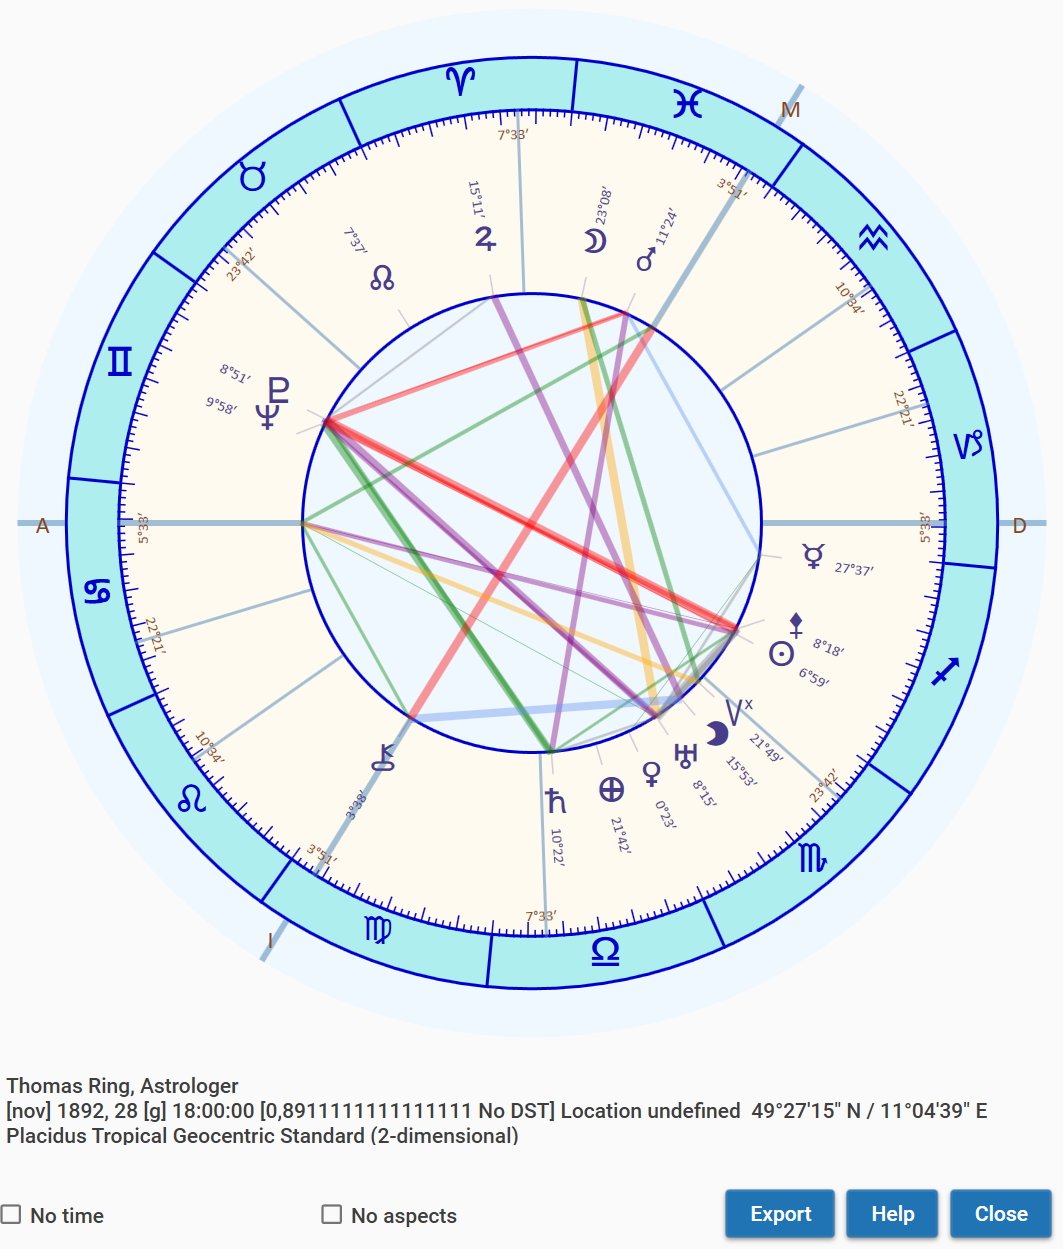
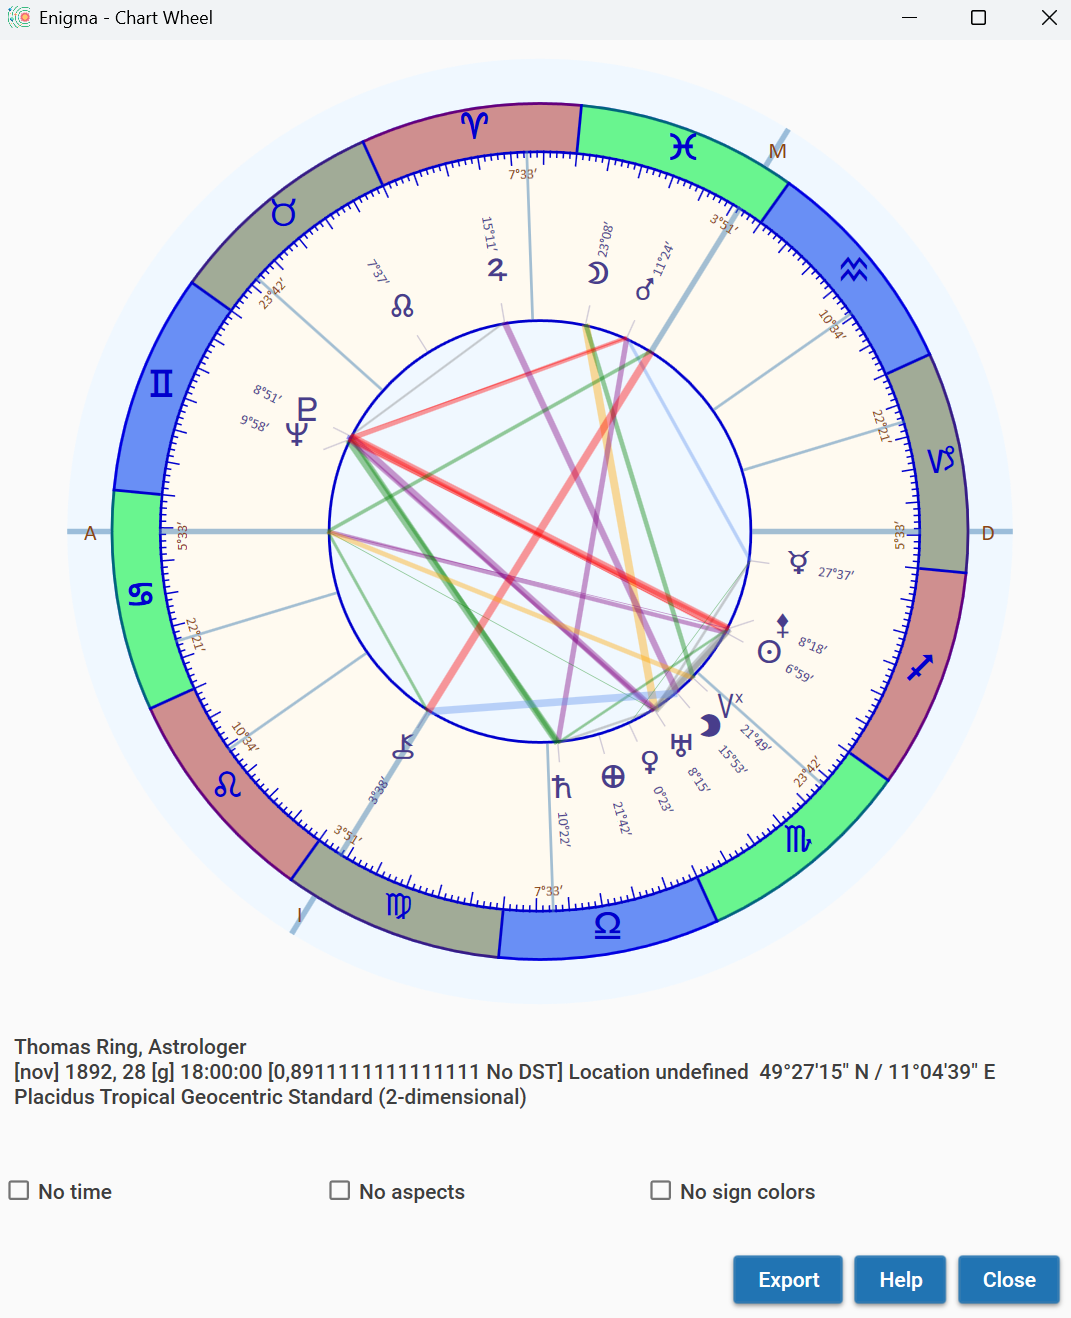
Update help and user manual for background colors for signs.

diff --git a/Enigma/Enigma.Frontend/res/help/ChartsWheel-en.html b/Enigma/Enigma.Frontend/res/help/ChartsWheel-en.html
@@ -13,6 +13,7 @@ If you change the size of the screen by drawing its borders, the drawing of the 
 <p>If you are not sure about the birth time, you can select the checkbox <i>No time</i>. 
   The figure will show no houses and the chart starts with zero Aries at the left.</p>
 <p>By checking <i>No aspects</i> you can remove the aspect lines.</p>
+<p>If you want a neutral background for the signs, click <i>No sign colors</i>.</p>
 <p>Click the button <i>Export</i> to create an image of the chart and save it to your disk.</p>
 </body>
 </html>

diff --git a/Enigma/docs/md/User-Manual/Charts.md b/Enigma/docs/md/User-Manual/Charts.md
@@ -128,6 +128,8 @@ At the bottom left is a check-box labeled 'No time'. If you check this, Enigma d
 
 Also at the bottom is a check-box 'No aspects'. Click this to remove the aspect lines from the chart figure.
 
+If you want a neutral background for the signs, click 'No sign colors'.
+
 Click the button **Export** to save a high quality image of the wheel to your disk. The image will be in PNG-format and can be used in a word processor, website or just be printed.
 
 

diff --git a/Enigma/docs/md/Release-Notes/Release-notes.md b/Enigma/docs/md/Release-Notes/Release-notes.md
@@ -28,6 +28,10 @@ You can now export all figures to an image in PNG format to disk. You can use th
 
 Enigma automatically calculates the coordinates and the time zone offset. You can now override these values. 
 
+### Background colors for signs based on elements
+
+The zodiac signs in the chart wheel are shown with a color, based on the elements. You can also choose a neutral background.
+
 
 
 ## Release 0.6.2  beta - June 25, 2025
